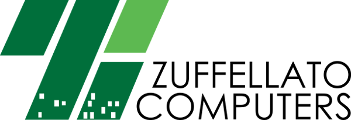
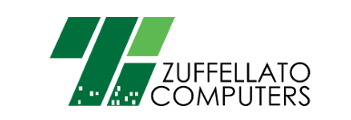
fix: revert other sponsor size

diff --git a/css/index.scss b/css/index.scss
@@ -230,7 +230,7 @@ footer{
 }
 
 #sponsor div a img{
-    width: 12rem;
+    width: 15rem;
     max-width: 100%;
     height: auto;
 }
